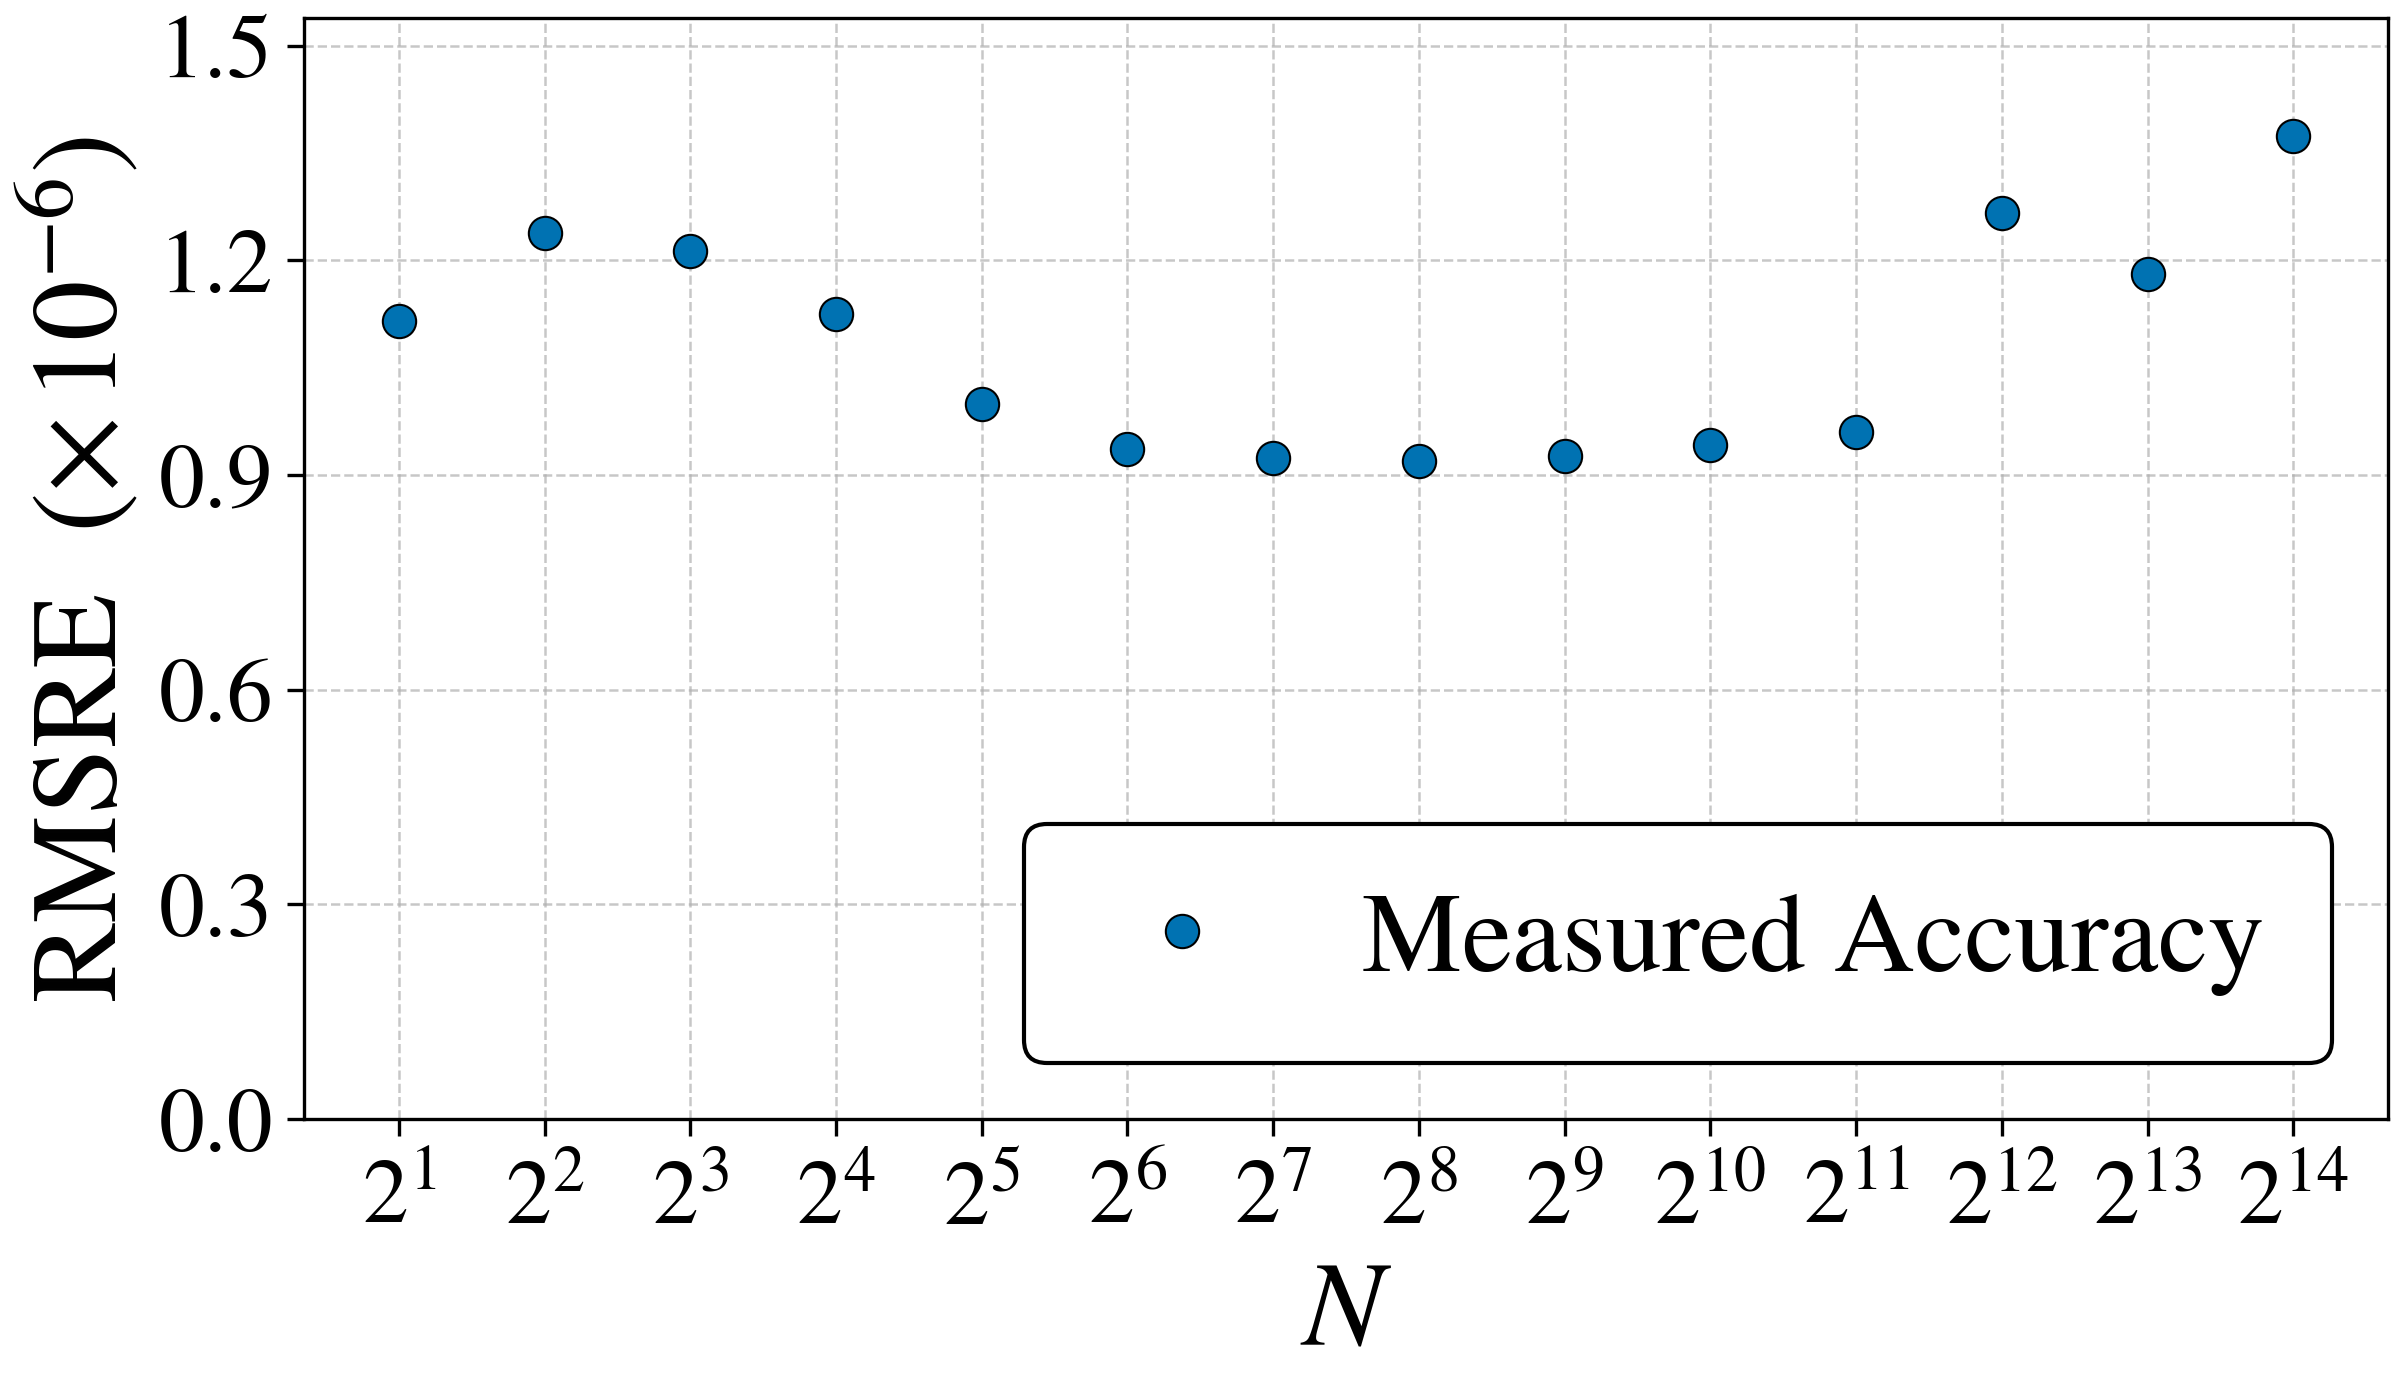
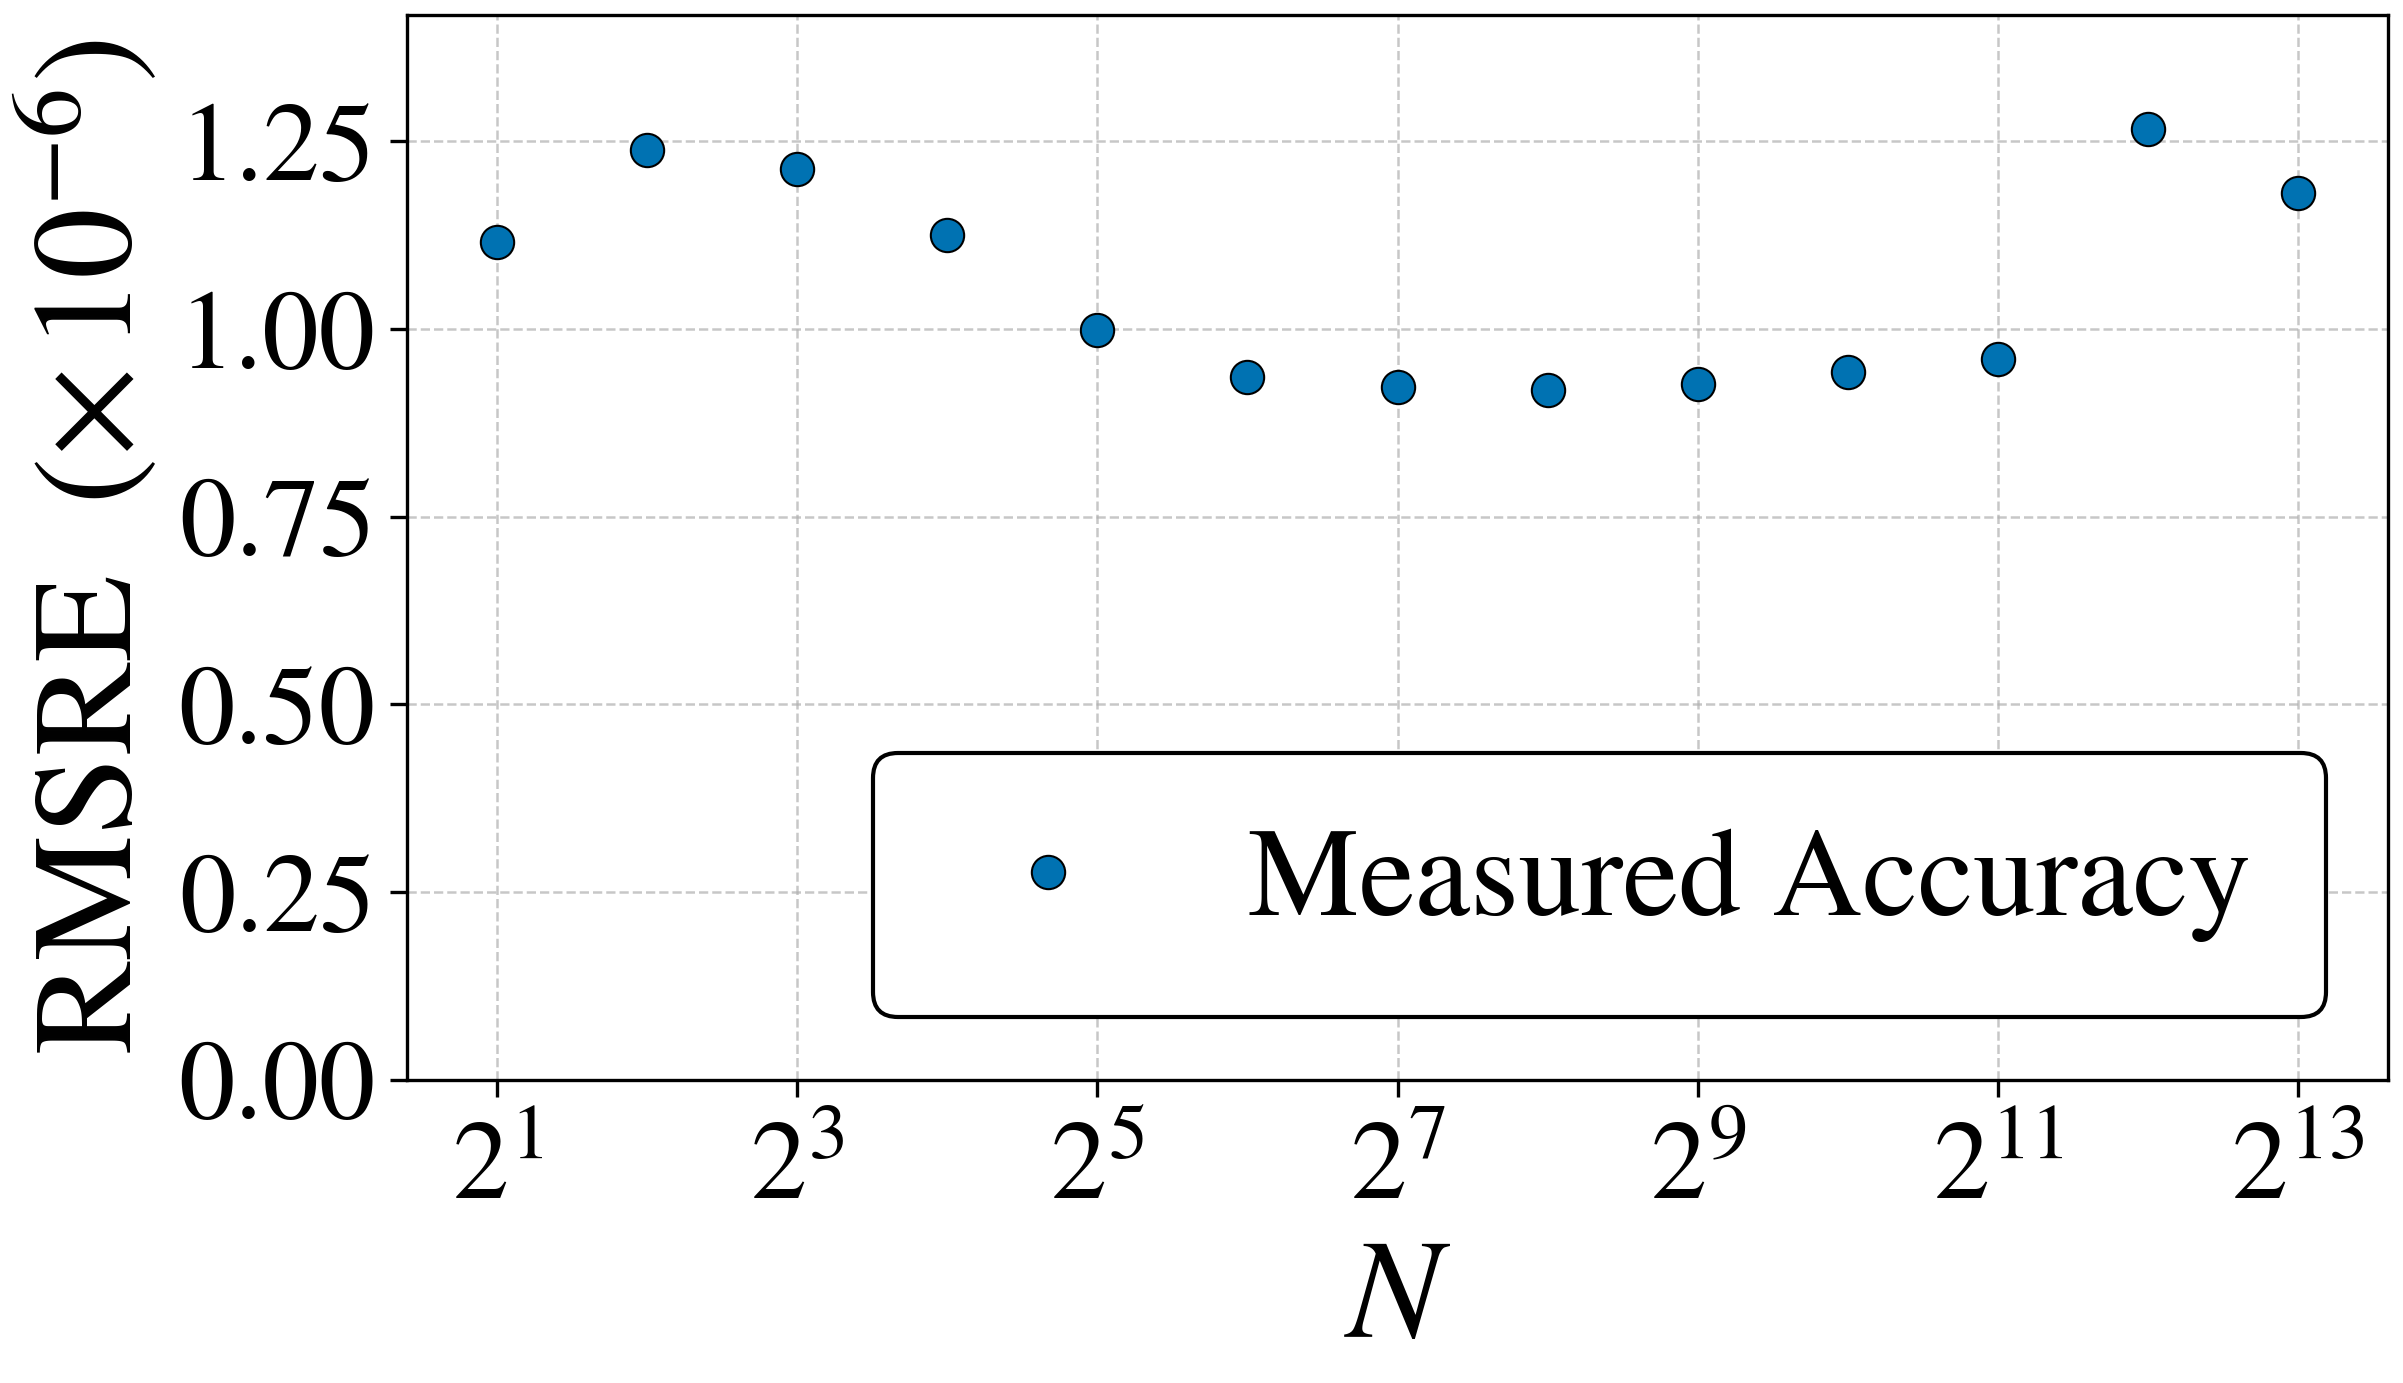
m

diff --git a/evaluation/softmax/N_sweep/scripts/plot_accuracy.py b/evaluation/softmax/N_sweep/scripts/plot_accuracy.py
@@ -20,12 +20,15 @@ with its own linear y-axis, keeps both readable at their native scale.
 Design notes
 ------------
 * The x-axis is logarithmic and the y-axis is linear (a semilog-x view). ``N``
-  spans over three decades (2 .. 16384, always a power of two), so a log x-axis
-  keeps the densely-packed small-N points legible; RMSRE varies only mildly
-  across the sweep (well under one decade), so a *linear* y-axis shows those
-  variations at their true relative size rather than compressing them the way a
-  log y-axis would. The x-axis uses base 2 (``N`` is a power of two) with the
-  sampled N values, labelled as ``2^k``, as tick labels.
+  spans over three decades (2 .. 8192, always a power of two; the sweep's final
+  2^14 point is dropped so the range matches the sibling layernorm N-sweep
+  figures), so a log x-axis keeps the densely-packed small-N points legible;
+  RMSRE varies only mildly across the sweep (well under one decade), so a
+  *linear* y-axis shows those variations at their true relative size rather than
+  compressing them the way a log y-axis would. The x-axis uses base 2 (``N`` is a
+  power of two); ticks are labelled as ``2^k`` at the odd exponents only
+  (2^1, 2^3, ..., 2^13), every second one dropped so the enlarged labels do not
+  crowd once the figure is shrunk into its side-by-side LaTeX pair.
 * Because the y-axis is linear and the series is not a clean power law, the raw
   measurements are drawn as bare markers (no connecting line and no fitted
   curve): the figure shows the sweep exactly as sampled. RMSRE is rescaled by a
@@ -80,6 +83,13 @@ SERIES = (
     ("accuracy_small_error.csv", "accuracy_small_error.png", 1e-6, r"10^{-6}"),
 )
 
+# Largest N to plot. The accuracy reports sweep N up to 16384 (2^14), but the
+# figures are capped at N <= 8192 (2^1 .. 2^13): the single 2^14 point is dropped
+# so this pair spans the same 2^1..2^13 range as the sibling layernorm N-sweep
+# figures they sit beside in the thesis. The cap is applied at load time, so both
+# the drawn points and the y-axis autoscale use this same range.
+N_MAX = 8192
+
 
 def pow2_label(n: int) -> str:
     """Format a sampled ``N`` as a base-2 power label for the log x-axis.
@@ -98,9 +108,12 @@ def pow2_label(n: int) -> str:
 def load_accuracy_csv(path: Path) -> tuple[list[int], list[float]]:
     """Load the ``(N, RMSRE)`` columns from an accuracy CSV.
 
-    Returns two parallel lists sorted by ascending ``N`` (so the points are laid
-    out in x-order regardless of the file's row order). Raises ``ValueError`` if
-    the file is empty or missing the expected columns.
+    Only rows with ``N <= N_MAX`` are kept, so the figures stop at 2^13 (the 2^14
+    point is dropped to match the sibling layernorm N-sweep range). Returns two
+    parallel lists sorted by ascending ``N`` (so the points are laid out in
+    x-order regardless of the file's row order). Raises ``ValueError`` if the file
+    is empty, is missing the expected columns, or has no rows within the
+    ``N <= N_MAX`` range.
     """
     required = {"N", "RMSRE"}
     with path.open("r", newline="", encoding="utf-8") as handle:
@@ -109,9 +122,13 @@ def load_accuracy_csv(path: Path) -> tuple[list[int], list[float]]:
             raise ValueError(
                 f"expected columns {sorted(required)} in {path}, found {reader.fieldnames}"
             )
-        rows = [(int(row["N"]), float(row["RMSRE"])) for row in reader]
+        rows = [
+            (int(row["N"]), float(row["RMSRE"]))
+            for row in reader
+            if int(row["N"]) <= N_MAX
+        ]
     if not rows:
-        raise ValueError(f"no data rows in {path}")
+        raise ValueError(f"no data rows with N <= {N_MAX} in {path}")
     rows.sort(key=lambda r: r[0])
     n_vals = [r[0] for r in rows]
     rmsre = [r[1] for r in rows]
@@ -131,13 +148,17 @@ def configure_style() -> None:
             "font.serif": ["STIXGeneral", "DejaVu Serif"],
             "mathtext.fontset": "stix",
             "axes.unicode_minus": True,
-            # Typographic sizes tuned for a ~half-to-full text-width figure.
+            # Typographic sizes tuned for a ~half-text-width figure: the two
+            # accuracy figures are placed side by side in the thesis, so the
+            # axis/tick/legend type is enlarged to stay legible after LaTeX
+            # shrinks the pair to fit the text width (matching the sibling
+            # layernorm N-sweep figures).
             "font.size": 23,
-            "axes.titlesize": 25,
-            "axes.labelsize": 29,
-            "xtick.labelsize": 22,
-            "ytick.labelsize": 22,
-            "legend.fontsize": 27,
+            "axes.titlesize": 28,
+            "axes.labelsize": 34,
+            "xtick.labelsize": 27,
+            "ytick.labelsize": 27,
+            "legend.fontsize": 30,
             # Full black frame (all four spines) with outward ticks.
             "axes.linewidth": 0.8,
             "axes.edgecolor": "black",
@@ -205,12 +226,16 @@ def plot_one(
     # Factor next to the metric, as in rec/lookup's accuracy_newton_coeff figure.
     ax.set_ylabel(rf"RMSRE  $(\times\,{y_unit_label})$")
 
-    # Show every sampled N as a major tick, labelled as a power of two (2^k) to
-    # match the base-2 log axis, and suppress the base-2 minor ticks so the axis
-    # stays uncluttered. Labels sit horizontally (the 2^k form is compact enough
-    # not to need slanting).
-    ax.set_xticks(n_vals)
-    ax.set_xticklabels([pow2_label(n) for n in n_vals])
+    # Tick only the odd-exponent powers of two (2^1, 2^3, ..., 2^13), labelled as
+    # a power of two (2^k) to match the base-2 log axis, and suppress the base-2
+    # minor ticks. With the enlarged tick type (and the figure later shrunk into a
+    # side-by-side LaTeX pair) a label at every sampled N would crowd, so every
+    # second exponent is dropped; the even-exponent measurements are still plotted
+    # as points, they simply sit between labelled ticks. Labels sit horizontally
+    # (the 2^k form is compact enough not to need slanting).
+    tick_n = [n for n in n_vals if (n.bit_length() - 1) % 2 == 1]
+    ax.set_xticks(tick_n)
+    ax.set_xticklabels([pow2_label(n) for n in tick_n])
     ax.xaxis.set_minor_locator(NullLocator())
 
     # Linear y-axis: start at 0 so the RMSRE magnitude is read honestly against a
